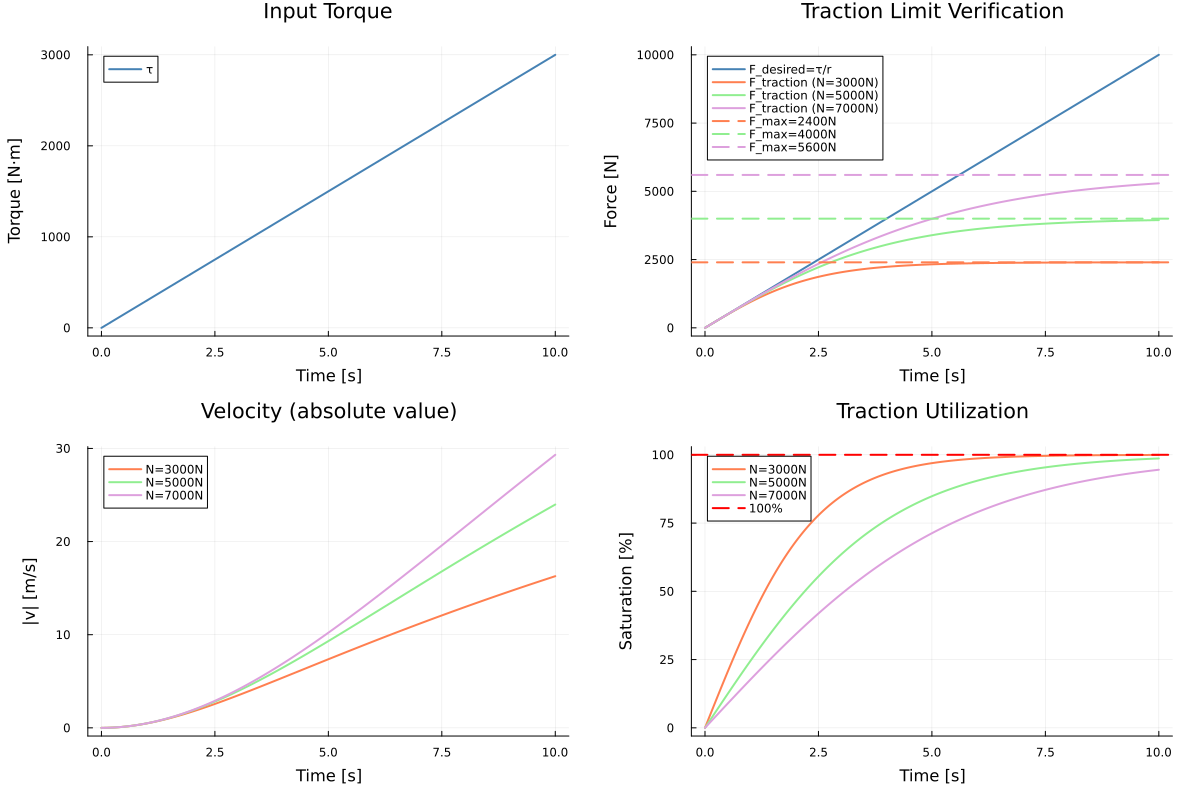
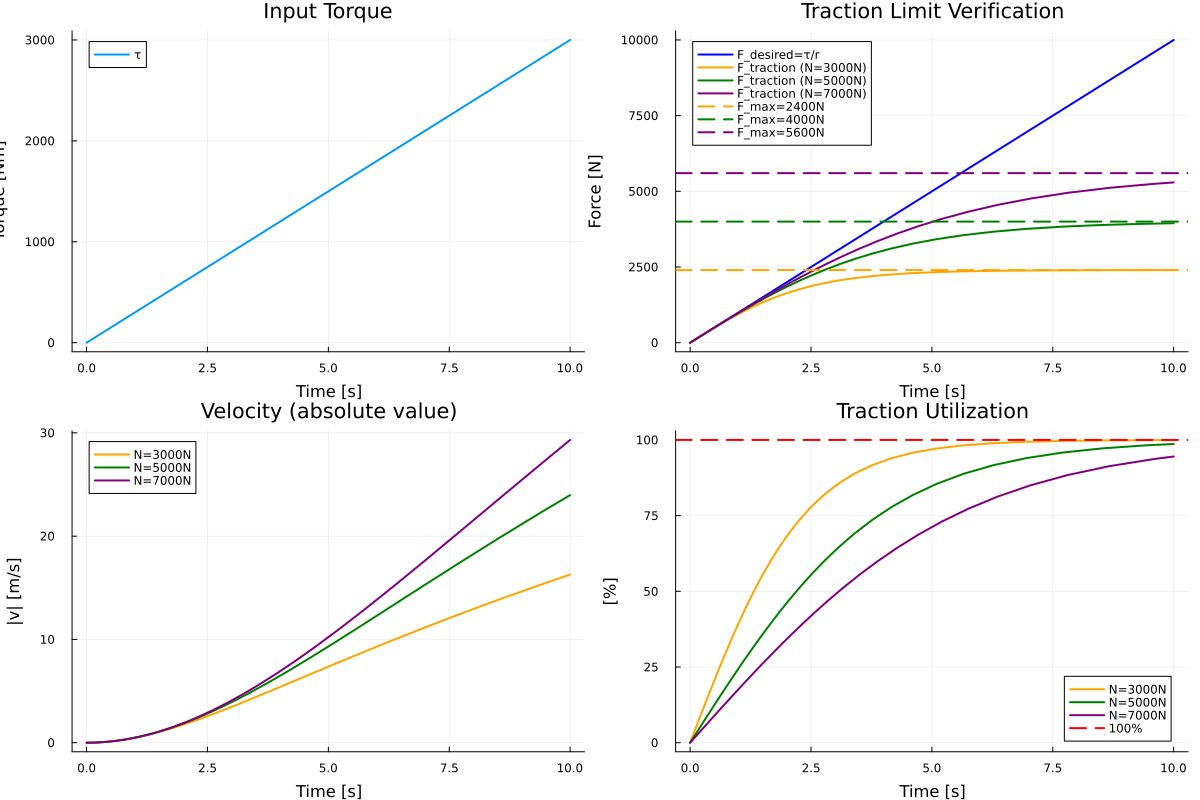
test2 update

diff --git a/ProjectWheelLuuk.md b/ProjectWheelLuuk.md
@@ -18,10 +18,17 @@ F_max = μ·N = 0.8 × 5000 = 4000 N
 - Example: τ = 2000 N·m → F_desired = 2000/0.3 = 6667 N → F_actual = 4000 N (limited!)
 
 
+
+
 ![alt text](./TestWheel_ForceTorque_Validation.png)
+
+
+Saturation at 93.1% by end of simulation -> extra test with 0 - 3000 Nm
+
 
 ![alt text](./TestWheel_ForceTorque_Validation3000.png)
 
+magnitude of velocity (is negative). Magnitude does only matter for this case
 
 
 ### Test 2: Load Transfer Effect on Traction
@@ -30,7 +37,11 @@ F_max = μ·N = 0.8 × 5000 = 4000 N
 - At N = 7000 N: F_max = 0.8 × 7000 = 5600 N
 - With same torque, traction force should scale with normal force
 
-The traction force scales with the normal force
+The traction force scales with the normal force:
+
+N = 3000 N: F_max = 2400 N, 100% saturated, v = 16.3 m/s
+N = 5000 N: F_max = 4000 N, 98.7% saturated, v = 24.0 m/s
+N = 7000 N: F_max = 5600 N, 94.5% saturated, v = 29.3 m/s
 
 ![alt text](./TestWheel_LoadTransfer_Validation.png)
 
